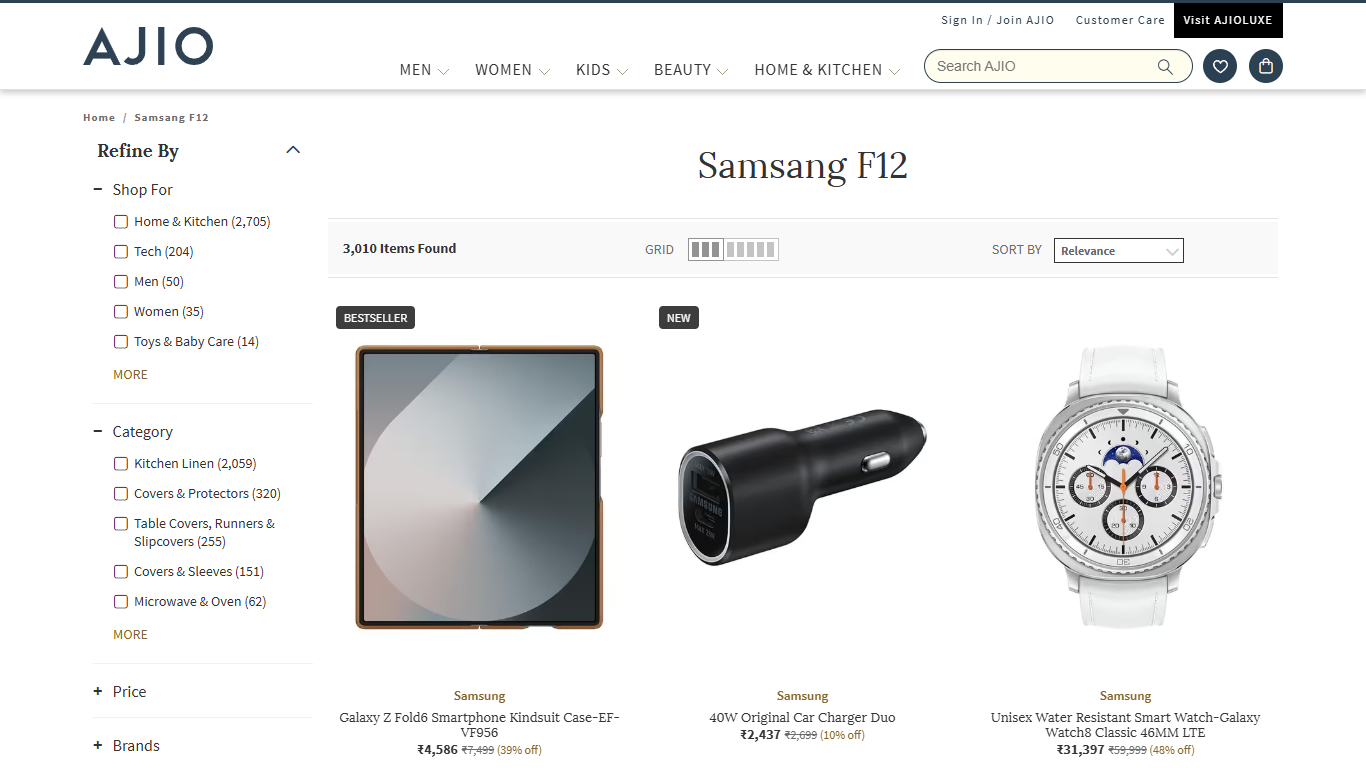
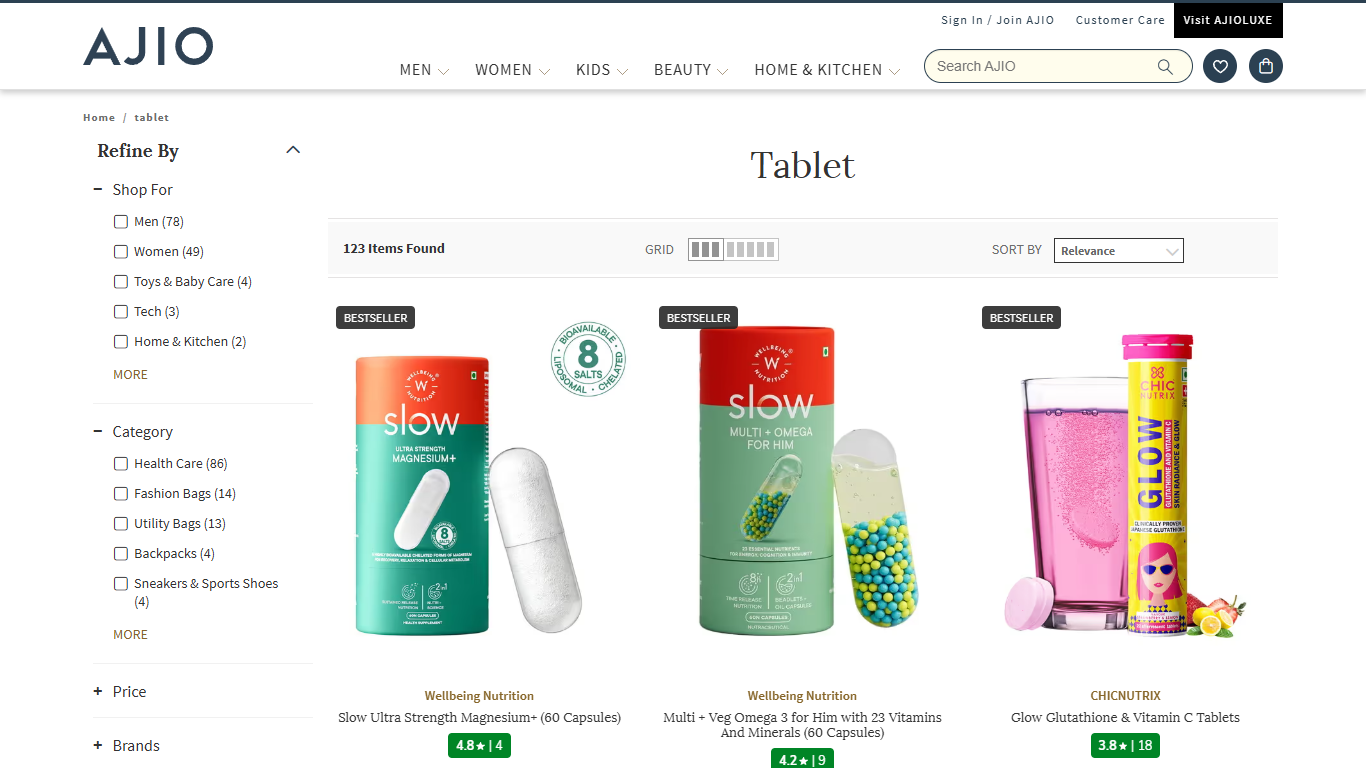
Dharsan_nav-loginpage

diff --git a/frontend/frontend/src/Styles/Home.css b/frontend/frontend/src/Styles/Home.css
@@ -83,6 +83,22 @@
     background:#6d28d9;
     transform:scale(1.05);
 }
+#search-btn{
+    width:120px;
+    height:45px;
+    border:none;
+    border-radius:10px;
+    background:blueviolet;
+    color:white;
+    cursor:pointer;
+    font-size:16px;
+    transition:.3s;
+}
+
+#search-btn:hover{
+    background:#6d28d9;
+    transform:scale(1.05);
+}
 
 
 
@@ -150,4 +166,97 @@
 
 .card button:hover{
     background:#6d28d9;
+}
+
+
+@media (max-width: 768px) {
+
+    .top{
+        flex-direction: column-reverse;
+        text-align: center;
+        gap: 30px;
+    }
+
+    .right{
+        justify-content: center;
+    }
+
+    .right img{
+        width:300px;
+    }
+
+    #compare{
+        font-size:40px;
+    }
+
+    #save{
+        font-size:28px;
+    }
+
+    .search-box{
+        flex-direction: column;
+        width:100%;
+    }
+
+    .search-box input{
+        width:100%;
+        max-width:450px;
+    }
+
+    #search-btn{
+        width:100%;
+        max-width:450px;
+    }
+
+    .products{
+        grid-template-columns:repeat(2,1fr);
+    }
+}
+
+
+@media (max-width:480px){
+
+    .top{
+        width:95%;
+        margin:20px auto;
+    }
+
+    .right img{
+        width:220px;
+    }
+
+    #compare{
+        font-size:32px;
+    }
+
+    #save{
+        font-size:22px;
+    }
+
+    .search-box input{
+        width:100%;
+        font-size:15px;
+    }
+
+    #search-btn{
+        width:100%;
+    }
+
+    .products{
+        width:95%;
+        grid-template-columns:1fr;
+    }
+
+    .card img{
+        width:140px;
+        height:140px;
+    }
+
+    .card h4{
+        font-size:15px;
+    }
+
+    .card h2{
+        font-size:22px;
+    }
 }

diff --git a/frontend/frontend/src/Styles/Navbar.css b/frontend/frontend/src/Styles/Navbar.css
@@ -34,7 +34,7 @@
 }
 
 .nav a:hover {
-    color: #ffffff;
+    color: #db68e1;
 }
 .nav button {
     padding: 10px 18px;
@@ -45,8 +45,9 @@
 }
 
 .login-btn {
-    background:white;
-    color: #bd25eb;
+    background:rgb(154, 58, 210);
+    color: #ffffff;
+    
     border: 2px solid #c325eb;
 }
 
@@ -56,11 +57,58 @@
 }
 
 .register-btn {
-    background: #2563eb;
-    color: white;
+    background: #a925eb;
+    color: rgb(0, 0, 0);
     border: none;
 }
 
 .register-btn:hover {
     background: #1d4ed8;
+}
+
+.hamburger{
+    display:none;
+    font-size:30px;
+    color:rgb(255, 255, 255);
+    cursor:pointer;
+}
+
+/* Mobile */
+@media (max-width:768px){
+
+    .navbar{
+        position:relative;
+        padding:15px 20px;
+    }
+
+    .hamburger{
+        display:block;
+    }
+
+    .nav{
+        display:none;
+        position:absolute;
+        top:70px;
+        left:0;
+        width:100%;
+        background:#8525eb;
+        flex-direction:column;
+        align-items:center;
+        gap:18px;
+        padding:20px 0;
+        z-index:1000;
+    }
+
+    .nav.active{
+        display:flex;
+    }
+
+    .nav a{
+        color:rgb(255, 255, 255);
+        font-size:18px;
+    }
+
+    .nav button{
+        width:180px;
+    }
 }

diff --git a/frontend/frontend/src/Components/Navbar.jsx b/frontend/frontend/src/Components/Navbar.jsx
@@ -1,20 +1,28 @@
+import { useState } from "react";
+import { Link } from "react-router-dom";
 import "../Styles/Navbar.css";
 
-function Navbar() {
-  return (
-    <div>
-      <div className="navbar">
-        <h3 id="logo">PriceWise</h3>
+export default function Navbar() {
+  const [menuOpen, setMenuOpen] = useState(false);
 
-        <div className="nav">
-          <a href="/">Home</a>
-          <a href="/compare">Compare</a>
-          <button className="login-btn">Login</button>
-          <button className="register-btn">Register</button>
-        </div>
+  return (
+    <div className="navbar">
+      <h3 id="logo">PriceWise</h3>
+
+      <div
+        className="hamburger"
+        onClick={() => setMenuOpen(!menuOpen)}
+      >
+        ☰
+      </div>
+
+      <div className={`nav ${menuOpen ? "active" : ""}`}>
+        <Link to="/home">Home</Link>
+        <Link to="/">Compare</Link>
+
+        <button className="login-btn"><Link to='/'>Login</Link></button>
+        <button className="register-btn"><Link to='/register'>Register</Link></button>
       </div>
     </div>
   );
 }
-
-export default Navbar;

diff --git a/frontend/frontend/src/Styles/Login.css b/frontend/frontend/src/Styles/Login.css
@@ -6,7 +6,7 @@
     background-size: cover;
     background-position: center;
     background-repeat: no-repeat;
-
+ 
     display: flex;
     justify-content: center;
     align-items: flex-start;

diff --git a/backend/products/search_manager.py b/backend/products/search_manager.py
@@ -1,10 +1,8 @@
 import uuid
 from threading import Lock
 
-# Stores all active searches
 searches = {}
 
-# Thread-safe lock
 lock = Lock()
 
 
@@ -38,9 +36,6 @@ def create_search():
 
 
 def update_site(search_id, site, data):
-    """
-    Update one site's result.
-    """
     with lock:
         if search_id in searches:
             searches[search_id][site]["status"] = "done"

diff --git a/backend/products/views.py b/backend/products/views.py
@@ -23,9 +23,6 @@ SCRAPERS = {
 
 
 def run_scraper(search_id, site, scraper, product):
-    """
-    Runs one scraper and updates the search status.
-    """
     try:
         result = scraper(product)
         update_site(search_id, site, result)